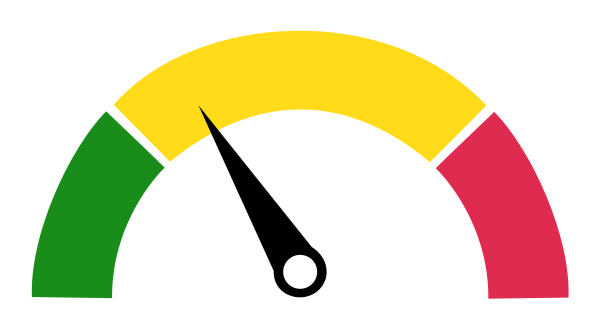
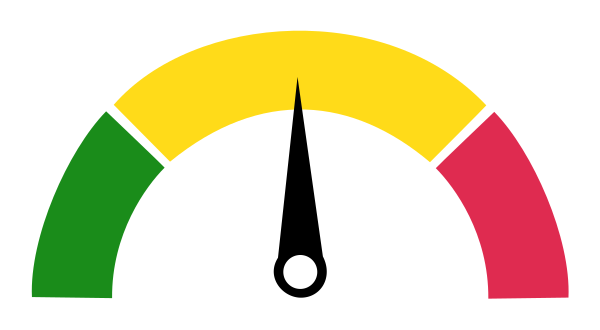
fix macroses errors and add correct float rounding

Changed region(s): [[0.33, 0.2424, 0.54, 0.8182], [0.51, 0.8485, 0.54, 0.9091]]

diff --git a/src/parse_macroses.py b/src/parse_macroses.py
@@ -13,10 +13,10 @@ def replace_macroses(var: str, coin):
     var = var.replace("market_cap", coin["market_cap"])
     var = var.replace("add_to_portfolio", coin["portfolio"])
     var = var.replace("chains", str(len(coin["chains"].split(","))))
-    var = var.replace("all_time_high", coin["ath"])
     var = var.replace("date_all_time_high", f"'{coin['ath_date']}'")
-    var = var.replace("all_time_low", coin["atl"])
     var = var.replace("date_all_time_low", f"'{coin['atl_date']}'")
+    var = var.replace("all_time_high", coin["ath"])
+    var = var.replace("all_time_low", coin["atl"])
     var = var.replace("dex", coin["market_dex"])
     var = var.replace("cex", coin["market_cex"])
     var = var.replace("twitter_subscriber", coin["twitter_subs"])
@@ -31,10 +31,10 @@ def replace_macroses(var: str, coin):
     var = var.replace("github_followers", coin["github_followers"])
     var = var.replace("github_projects", coin["github_projects"])
     var = var.replace("github_people", coin["github_people"])
-    var = var.replace("github_repositories", coin["github_repositories"])
     var = var.replace(
         "github_repositories_last_date", f"'{coin['github_repositories_last_date']}'"
     )
+    var = var.replace("github_repositories", coin["github_repositories"])
     var = var.replace("parsing_date", f"'{coin['parsing_date']}'")
     var = var.replace("changes1h", coin['price_1h'])
     var = var.replace("changes24h", coin['price_24h'])

diff --git a/src/get_formulas.py b/src/get_formulas.py
@@ -12,22 +12,27 @@ def get_formulas(coin_id: str, config_file_path: str) -> dict:
         formula = parse_macroses(formula, coin_id, config_file_path)
         result = eval(formula)
 
+        if result == "":
+            result = 0
+
+
         if isinstance(result, float):
-            result = f"{result:.16f}"
-            result = result.rstrip("0.")
+            if "e" in str(result):
+                result = f"{result:.16f}"
 
-            if formula_key.startswith("*"):
-                result = "{:,}".format(float(result))
-                formula_key = formula_key[1:]
-        else:
-            if formula_key.startswith("*"):
-                result = "{:,}".format(int(result))
-                formula_key = formula_key[1:]
+        if formula_key.startswith("*"):
+            result = "{:,}".format(int(result))
+            formula_key = formula_key[1:]
 
-        result = result.rstrip("0.")
+        result = str(result).rstrip("0.")
+
+        if result == "":
+            result = 0
+
         formulas[formula_key] = result
 
     return formulas
+
 
 if __name__ == "__main__":
     print(get_formulas("tron", "module-1.ini"))

diff --git a/src/get_coin.py b/src/get_coin.py
@@ -177,7 +177,6 @@ async def get_coin(coin_id: str, headers, parse, miss_markets=False, proxy=None)
                 .get_text()
                 .strip()
                 .split("$")[1]
-                .replace(",", "")
             )
         except:
             coin["price"] = 0
@@ -595,14 +594,12 @@ async def main():
     config = configparser.ConfigParser()
     config.read("module-1.ini")
 
-    coin = await get_coin(
-        "polygon",
-        config["headers"],
-        config["sources"],
-        use_proxy=config["default"]["use_proxy"] == "on",
+    coin = get_coin_from_db(
+        "cosmos-hub",
+        config_url="module-2.ini"
     )
 
-    print(coin["price"])
+    print(coin)
 
 
 if __name__ == "__main__":

diff --git a/src/create_diagram.py b/src/create_diagram.py
@@ -2,11 +2,10 @@ import cairosvg
 
 
 def get_svg(deg):
-    return f"""<?xml version="1.0" encoding="UTF-8" standalone="no"?>
-<svg
+    return f"""<?xml version="1.0" encoding="UTF-8" standalone="no"?><svg
+   viewBox="-140 -70 280 40"
    width="600px"
    height="330px"
-   viewBox="-140 -70 280 40"
    version="1.1"
    id="svg1"
    xml:space="preserve"
@@ -75,4 +74,4 @@ def create_diagram(val, out_url):
 
 
 if __name__ == "__main__":
-    create_diagram(33, "assets/diagram.png")
+    create_diagram(50, "assets/diagram.png")

diff --git a/src/scheduled_posting.py b/src/scheduled_posting.py
@@ -45,7 +45,10 @@ async def scheduled_posting(bot: Bot, config_url: str):
         formulas = get_formulas(coin_id=coin_id, config_file_path=config_url)
         diagram_val = parse_diagram(config["message"]["diagram"], formulas)
 
-        create_diagram(diagram_val, config["default"]["out_table"])
+        if not diagram_val:
+            diagram_val = 0
+
+        create_diagram(diagram_val, config["default"]["schedule_diagram"])
 
         message_text = parse_text(text, formulas)
 

diff --git a/src/check_triggers.py b/src/check_triggers.py
@@ -56,7 +56,7 @@ async def check_triggers(bot: Bot, config_url):
         if worth_reacting:
             diagram_val = parse_diagram(config["message"]["diagram"], formulas)
 
-            create_diagram(diagram_val, config["default"]["out_table"])
+            create_diagram(diagram_val, config["default"]["trigger_diagram"])
 
             message_text = parse_text(text, formulas)
 

diff --git a/src/module-2.py b/src/module-2.py
@@ -140,7 +140,7 @@ async def main(bot):
             cache[config_url]["schelude_parsing"] = "off"
             json.dump(cache, f)
 
-        await parse_coins(config_url)
+        # await parse_coins(config_url)
         await check_triggers(bot, config_url)
         await scheduled_posting(bot, config_url)
 
